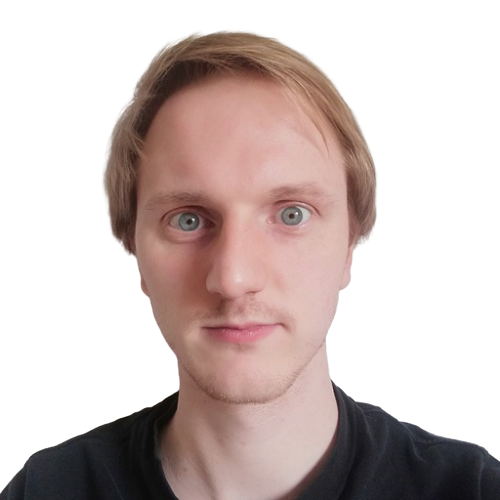
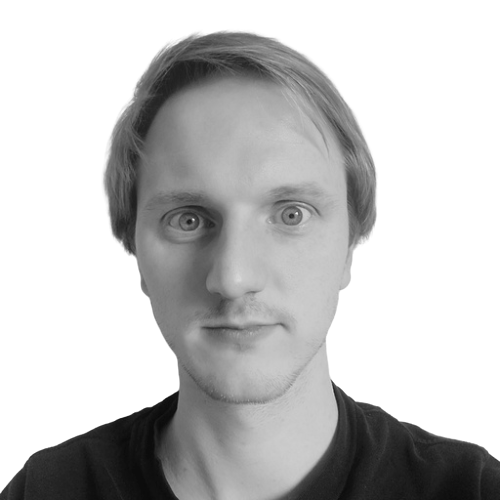
add image

Changed region(s): [[0.24, 0.06, 0.75, 0.96], [0.3, 0.12, 0.33, 0.15]]

diff --git a/index.html b/index.html
@@ -44,8 +44,6 @@
             <h1>Marius Schmauder</h1>
           </div>
 
-          <!-- <img class="profile" src="img/my-profile.png" alt="profile" /> -->
-
           <div class="col-sm">
             <h2 id="about" class="text-primary">About me</h2>
             <p class="introtext">
@@ -63,88 +61,143 @@
       </div>
     </section>
 
-    <section class="container">
+    <section class="container mb-5">
       <div class="row">
         <div class="col-sm">
-          <h2 id="interests" class="text-primary">My Interests</h2>
-          <p class="introtext">
-            I have a variety of different interests and hobbies.
-          </p>
+          <h2 id="interests" class="text-primary mb-5">My Interests</h2>
 
-          <p class="text-secondary">Some more Text</p>
-          <p class="text-secondary">Some more Text</p>
-          <p class="text-secondary">Some more Text</p>
-          <p class="text-secondary">Some more Text</p>
-          <p class="text-secondary">Some more Text</p>
+          <div class="container text-center">
+            <div class="row">
+              <div class="col-sm">
+                <img
+                  style="height: 75px;"
+                  src="img/football-icon.svg"
+                  alt="football icon"
+                />
+                <p class="text-secondary">Sports</p>
+
+                <img
+                  style="height: 75px;"
+                  src="img/airplane_silhouette.svg"
+                  alt="airplane silhouette"
+                />
+                <p class="text-secondary">Travelling</p>
+              </div>
+
+              <div class="col-sm">
+                <img
+                  style="height: 75px;"
+                  src="img/letter-icon.svg"
+                  alt="letter icon"
+                />
+                <p class="text-secondary">Languages</p>
+                <img
+                  style="height: 75px;"
+                  src="img/simplebook.svg"
+                  alt="book icon"
+                />
+                <p class="text-secondary">Reading</p>
+              </div>
+            </div>
+          </div>
         </div>
+
         <div class="col-sm">
-          <p></p>
-          <p class="introtext">Text</p>
-          <p class="text-secondary">Text</p>
+          <h2 id="skills" class="text-primary mb-5">My Skills</h2>
+
+          <div class="container text-center">
+            <div class="row">
+              <div class="col-sm ml">
+                <img
+                  style="height: 75px;"
+                  src="img/handshake-icon.svg"
+                  alt="handshake icon"
+                />
+                <p class="text-secondary">Teamwork</p>
+              </div>
+              <div class="col-sm">
+                <img
+                  style="height: 75px;"
+                  src="img/speechbubble.svg"
+                  alt="speech bubble"
+                />
+                <p class="text-secondary">Communication</p>
+              </div>
+            </div>
+            <div class="row">
+              <div class="col-sm">
+                <img
+                  style="height: 75px;"
+                  src="img/magnifying-glass.svg"
+                  alt="magnifying glass icon"
+                />
+                <p class="text-secondary">Problem solving</p>
+              </div>
+              <div class="col-sm">
+                <img
+                  style="height: 75px;"
+                  src="img/brain-icon.svg"
+                  alt="brain icon"
+                />
+                <p class="text-secondary">Critical Thinking</p>
+              </div>
+            </div>
+          </div>
         </div>
       </div>
     </section>
 
-    <section class="container">
-      <h2 id="skills" class="text-primary text-center">
-        My Skills
-      </h2>
-      <div class="row text-center justify-content-center">
-        <div class="col-sm">
-          <img
-            style="height: 75px;"
-            src="img/handshake-icon.svg"
-            alt="handshake icon"
-          />
-          <p class="text-secondary">Teamwork</p>
-        </div>
-        <div class="col-sm">
-          <img
-            style="height: 75px;"
-            src="img/speechbubble.svg"
-            alt="speech bubble"
-          />
-          <p class="text-secondary">Communication</p>
-        </div>
-        <div class="col-sm">
-          <img
-            style="height: 75px;"
-            src="img/magnifying-glass.svg"
-            alt="magnifying glass icon"
-          />
-          <p class="text-secondary">Problem solving</p>
-        </div>
-        <div class="col-sm">
-          <img
-            style="height: 75px;"
-            src="img/brain-icon.svg"
-            alt="brain icon"
-          />
-          <p class="text-secondary">Critical Thinking</p>
-        </div>
-      </div>
-    </section>
-
-    <section>
-      <h2 id="bio" class="text-primary text-center">
+    <section class="container mb-5">
+      <h2 id="cv" class="text-primary text-center">
         CV
       </h2>
+      <div class="row justify-content-center">
+        <div class="cvbox">
+          <p class="introtext">2016-2020</p>
+          <p class="text-secondary">
+            Bachelor of Arts, Business Administration,
+            <span>Kwansei Gakuin University,</span> Nishinomiya Japan
+          </p>
+        </div>
+        <div class="cvbox">
+          <p class="introtext">2015-2016</p>
+          <p class="text-secondary">
+            Language school, <span>Osaka, Japan</span>
+          </p>
+        </div>
+        <div class="cvbox">
+          <p class="introtext">2014-2015</p>
+          <p class="text-secondary">
+            Work and Travel,
+            <span>
+              Japan
+            </span>
+          </p>
+        </div>
+        <div class="cvbox">
+          <p class="introtext">2009-2013</p>
+          <p class="text-secondary">
+            JAB Josef Antoetz KG,<span>Bielefeld</span>
+          </p>
+        </div>
+      </div>
     </section>
 
-    <section class="container">
+    <section class="container mb">
       <div class="row">
         <div class="col-sm">
           <h2 id="contact" class="text-primary">
             Get in Touch
           </h2>
           <p class="introtext">You can reach me under</p>
-          <div class="container">
+
+          <div class="container mb-5">
             <div class="col">
               <div class="row">
                 <img
                   style="height: 40px; margin-right: 10px; margin-top: 5px;"
                   src="img/phone.svg"
-                  alt="github icon"
+                  alt="phone icon"
                 />
                 <div>
                   <p class="contacttext">Call me</p>
@@ -155,7 +208,7 @@
                 <img
                   style="height: 40px; margin-right: 10px; margin-top: 5px;"
                   src="img/mail-icon.svg"
-                  alt="github icon"
+                  alt="mail icon"
                 />
                 <div>
                   <p class="contacttext">E-mail</p>
@@ -166,14 +219,12 @@
               </div>
             </div>
           </div>
-
-          <p class="text-secondary"></p>
         </div>
-
         <div class="col-sm">
           <h2 class="text-primary mb-3">
             My Projects
           </h2>
+
           <div class="container">
             <div class="row">
               <div class="text-center mr-4">
@@ -186,6 +237,7 @@
                 </a>
                 <p class="contacttext">Github</p>
               </div>
+
               <div class="text-center">
                 <a href="https://gitlab.com/marius.schmauder.ms">
                   <img

diff --git a/scss/custom.scss b/scss/custom.scss
@@ -9,8 +9,13 @@ $jumbotron-bg: #222222;
 
 $h2-font-size: 0.9rem;
 
-// h1 {
-// }
+.jumbotron {
+  background-image: url(../img/my-profile.png);
+  background-repeat: no-repeat;
+  background-position-y: bottom;
+  background-position-x: 40%;
+  filter: grayscale(100%);
+}
 
 h2 {
   font-size: 3rem;
@@ -28,11 +33,6 @@ h2 {
   margin-right: 10px;
 }
 
-// img {
-//   -webkit-filter: grayscale(100%); /* Safari 6.0 - 9.0 */
-//   filter: grayscale(100%);
-// }
-
 .introtext {
   color: white;
   font-size: 1.7rem;
@@ -42,6 +42,29 @@ h2 {
   margin: 0;
   color: $secondary;
   font-size: 0.8rem;
+}
+
+.cvbox {
+  height: 200px;
+  width: 200px;
+  border: white solid 2px;
+  border-radius: 50px;
+  text-align: center;
+  margin: 15px;
+  padding: 5px;
+}
+
+span {
+  display: block;
+}
+
+.profile {
+  -webkit-filter: grayscale(100%);
+  filter: grayscale(100%);
+  height: 50%;
+  width: 50;
+  position: relative;
+  bottom: 0px;
 }
 
 // Include all Bootstrap

diff --git a/css/custom.css b/css/custom.css
@@ -1,4 +1,12 @@
 @charset "UTF-8";
+.jumbotron {
+  background-image: url(../img/my-profile.png);
+  background-repeat: no-repeat;
+  background-position-y: bottom;
+  background-position-x: 40%;
+  filter: grayscale(100%);
+}
+
 h2 {
   font-size: 3rem;
   text-decoration: underline;
@@ -25,6 +33,29 @@ h2 {
   margin: 0;
   color: #8e8e8e;
   font-size: 0.8rem;
+}
+
+.cvbox {
+  height: 200px;
+  width: 200px;
+  border: white solid 2px;
+  border-radius: 50px;
+  text-align: center;
+  margin: 15px;
+  padding: 5px;
+}
+
+span {
+  display: block;
+}
+
+.profile {
+  -webkit-filter: grayscale(100%);
+  filter: grayscale(100%);
+  height: 50%;
+  width: 50;
+  position: relative;
+  bottom: 0px;
 }
 
 /*!
